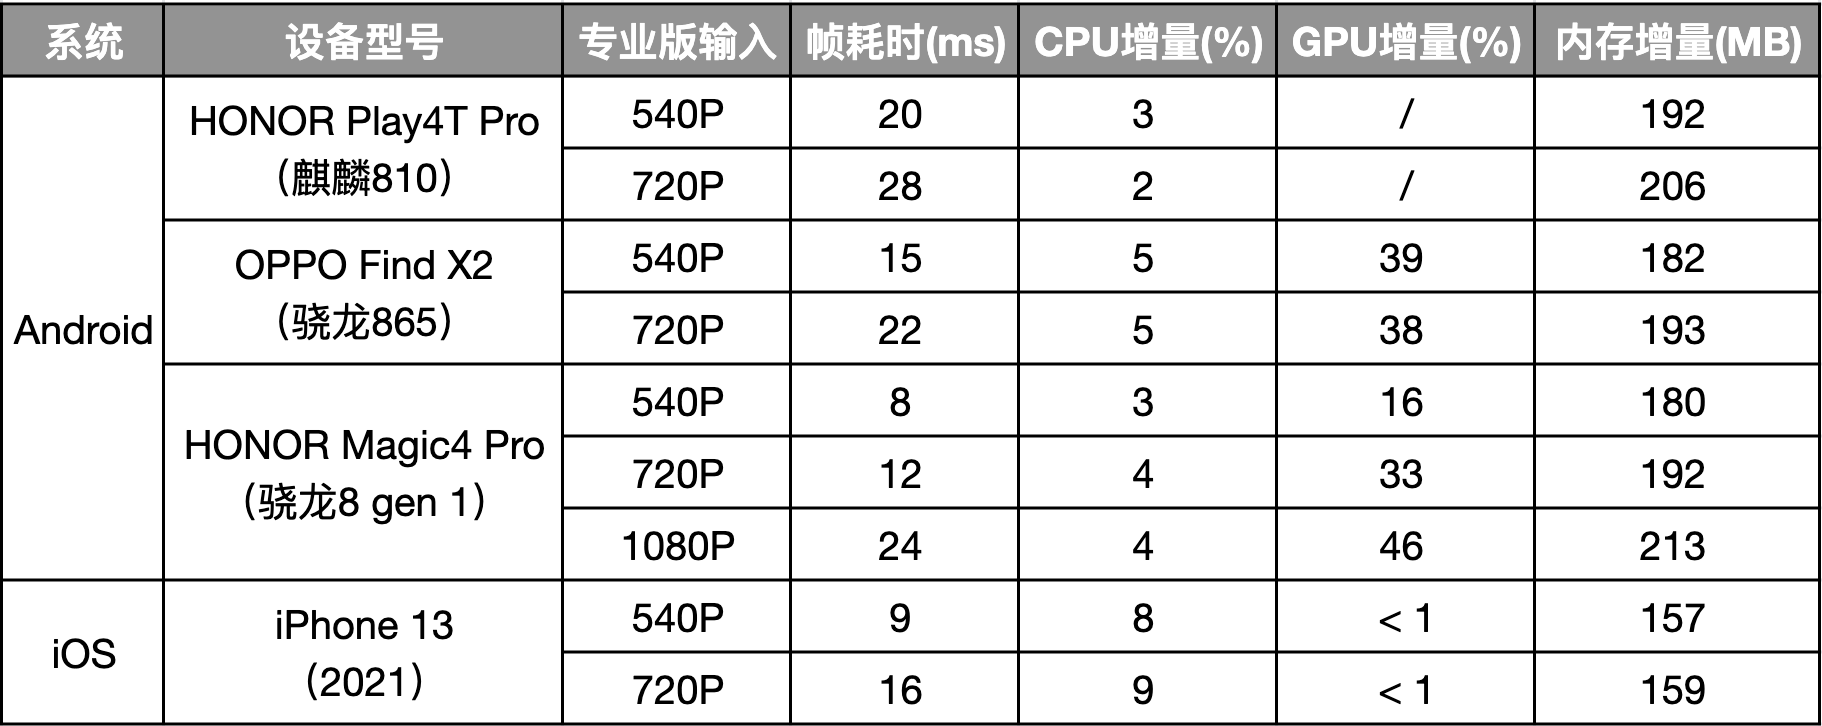
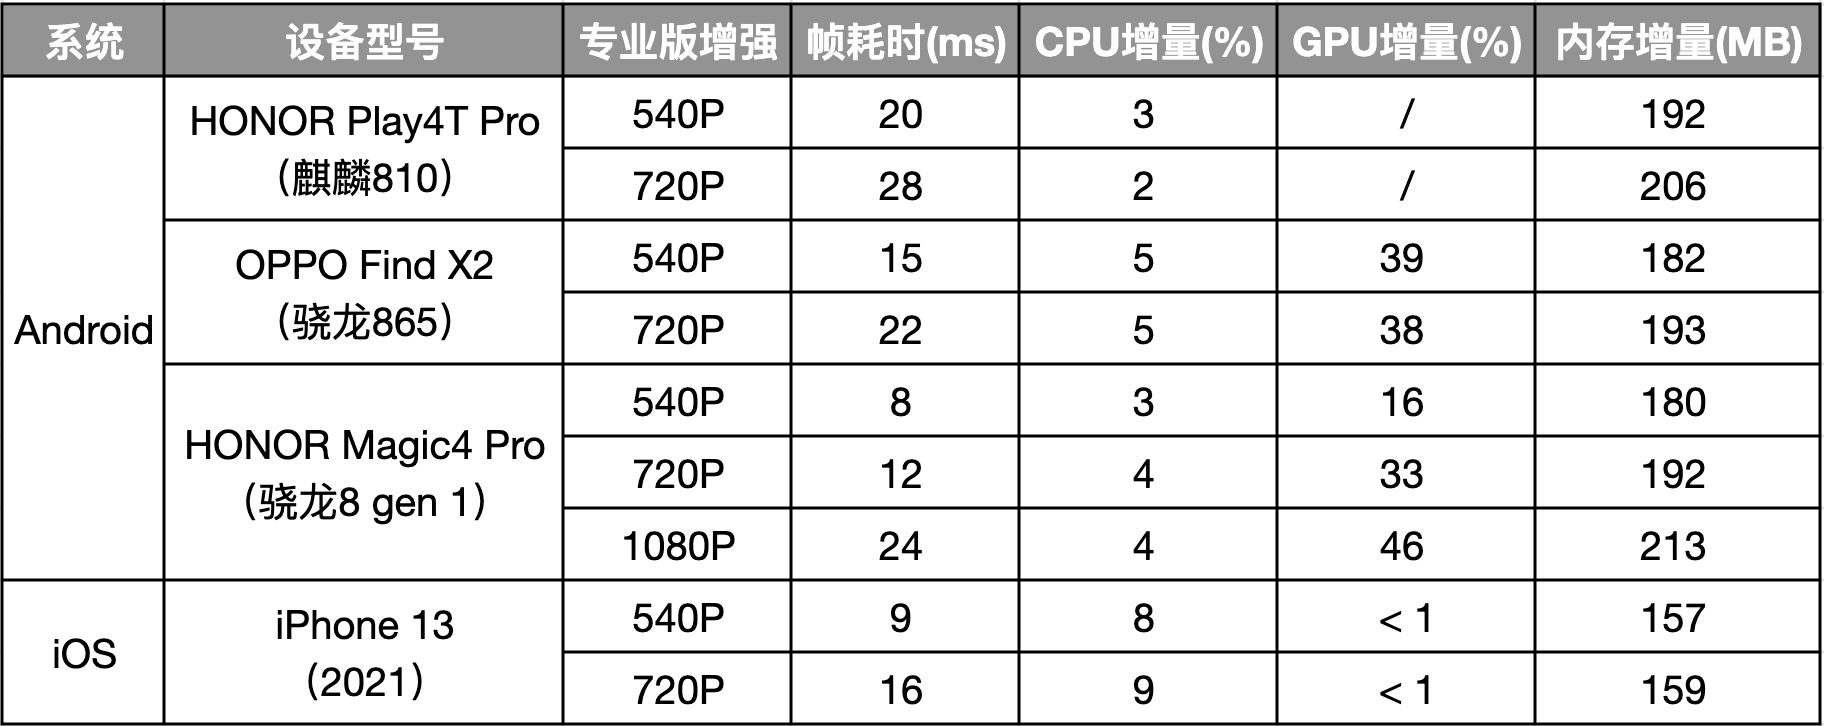
更新readme性能数据

diff --git a/README.md b/README.md
@@ -72,6 +72,8 @@
 <img src=docs/standard-sr-performance.png width=70% />
 
 ### 专业版
+<img src=docs/pro-sr-performance.png width=70% />
+ 
 <img src=docs/pro-ie-performance.png width=70% />
 
 
